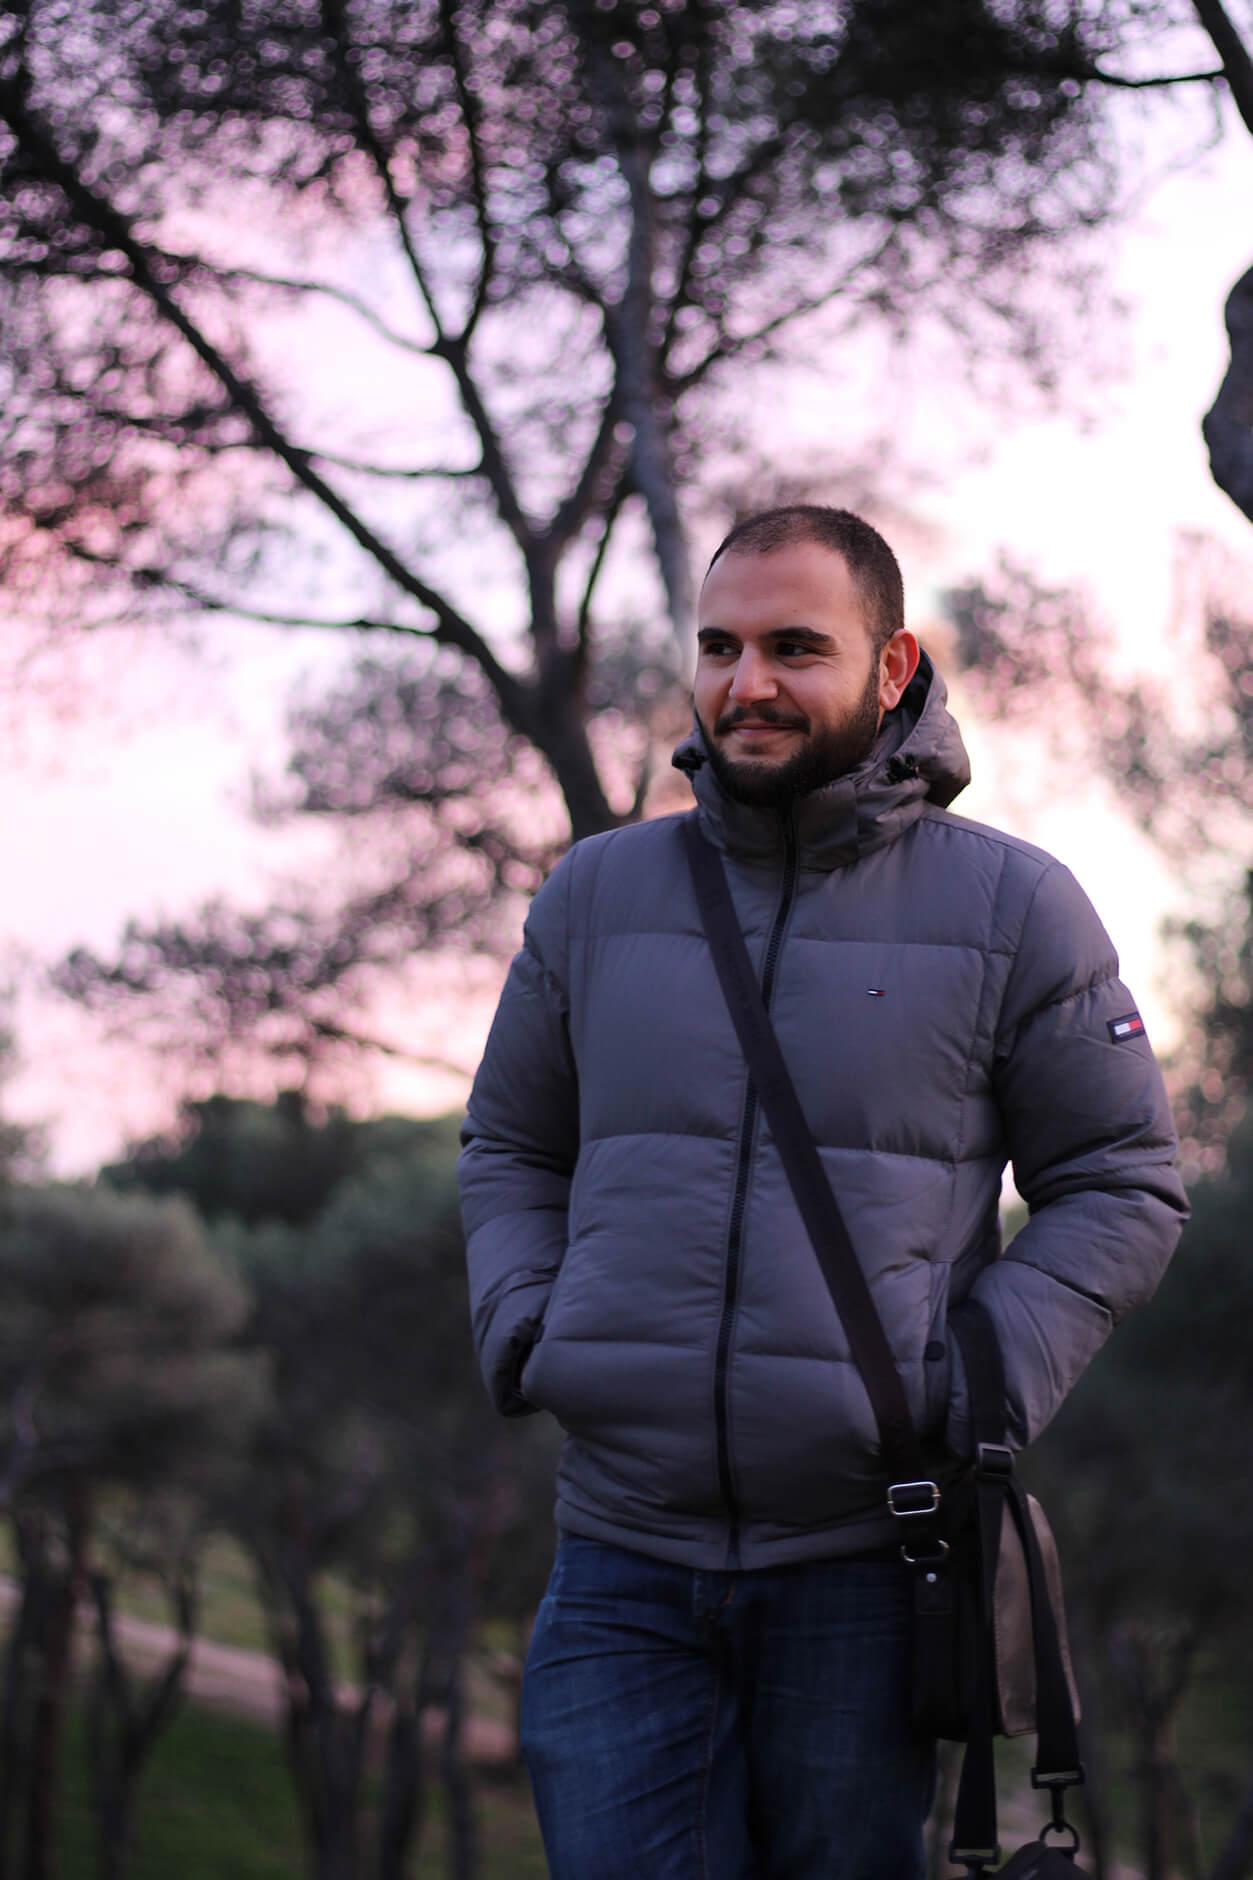
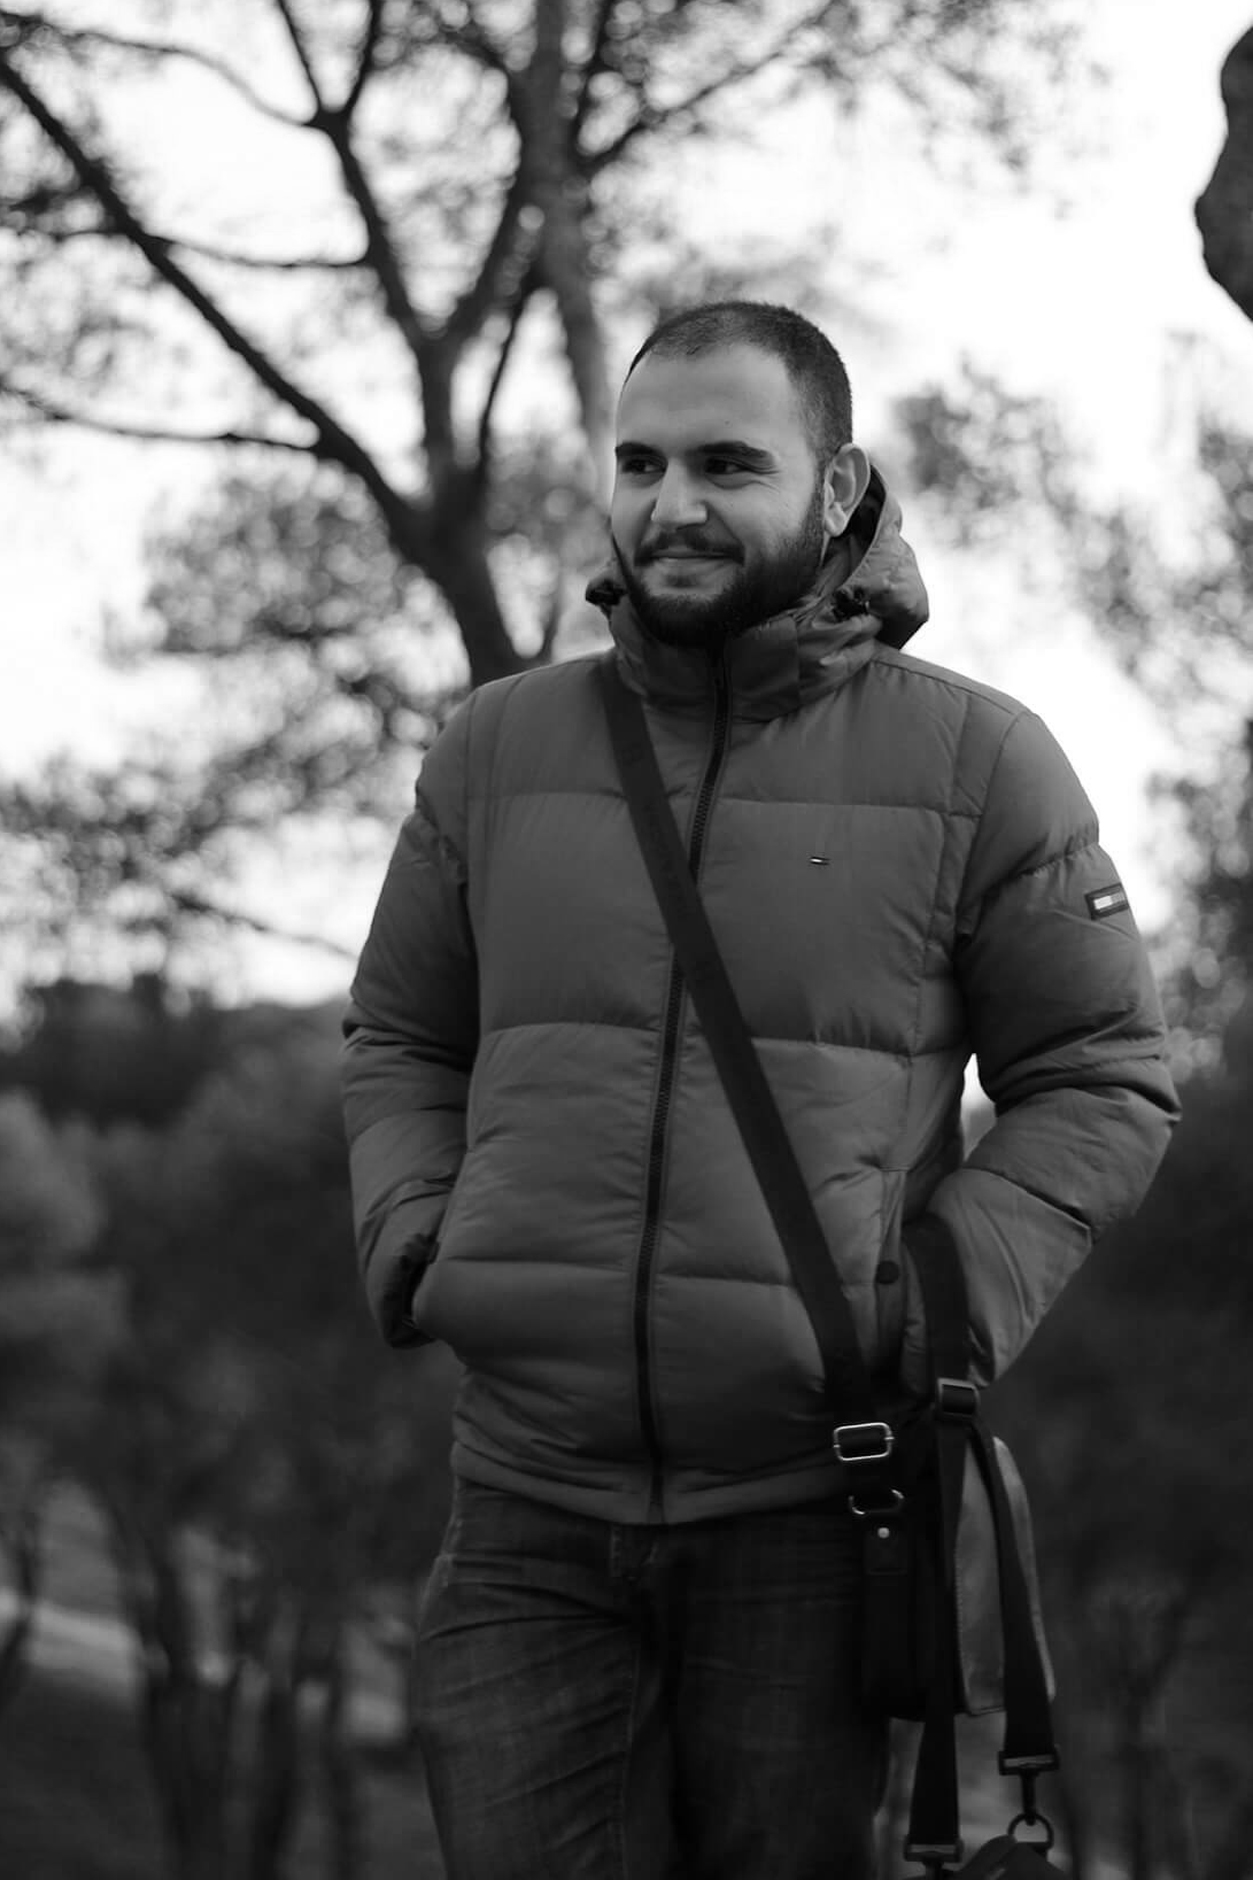
Values: Touch of colors / hayder picture b&w

diff --git a/app/styles/_styles.scss b/app/styles/_styles.scss
@@ -421,6 +421,9 @@ main {
     .slick-list, .slick-track {
       overflow: visible!important;
     }
+    .slick-slide {
+      outline: none;
+    }
     .slick-prev {
       text-indent: -99999px;
       background: url("../images/arrow-white.svg");
@@ -472,30 +475,46 @@ main {
         clip-path: polygon(0% 0%, 0% 100%, 0 100%, 0 30%, 100% 30%, 100% 55%, 0 55%, 0 100%, 100% 100%, 100% 0%);
       }
       &:nth-of-type(2) {
+        &::before {
+          border-color: $green;
+        }
         h2 {
           &::before {
             content: '02';
+            color: $green;
           }
         }
       }
       &:nth-of-type(3) {
+        &::before {
+          border-color: $yellow;
+        }
         h2 {
           &::before {
             content: '03';
+            color: $yellow;
           }
         }
       }
       &:nth-of-type(4) {
+        &::before {
+          border-color: $orange;
+        }
         h2 {
           &::before {
             content: '04';
+            color: $orange;
           }
         }
       }
       &:nth-of-type(5) {
+        &::before {
+          border-color: $violet;
+        }
         h2 {
           &::before {
             content: '05';
+            color: $violet;
           }
         }
       }
@@ -901,7 +920,7 @@ main {
       &.bio-hayder {
         .bio-image {
           background: url('../images/people/hayder-bio.jpg');
-          background-size: 150%;
+          background-size: cover;
           background-position: 65% 70%;
         }
       }

diff --git a/app/styles/_variables.scss b/app/styles/_variables.scss
@@ -13,7 +13,11 @@ $gray-lighter: #e9ebee;
 $gray-medium: #dde0e6;
 $text-color: $black;
 $text-inverse-color: $gray-lighter;
-$blue: #7dcedd;
+$blue: #61c1fe;
+$green: #77eabc;
+$yellow: #e6ea77;
+$orange: #e8b460;
+$violet: #a58cec;
 
 
 $font-size-h1: 2.8vw; // 52px; // services, humans

diff --git a/app/index.html b/app/index.html
@@ -125,7 +125,7 @@
       </div>
 
       <div class="values-unit">
-        <h2>Freedom and Focus</h2>
+        <h2>Freedom & Focus</h2>
         <h5>We want to control and enjoy our own time</h5>
       </div>
 
